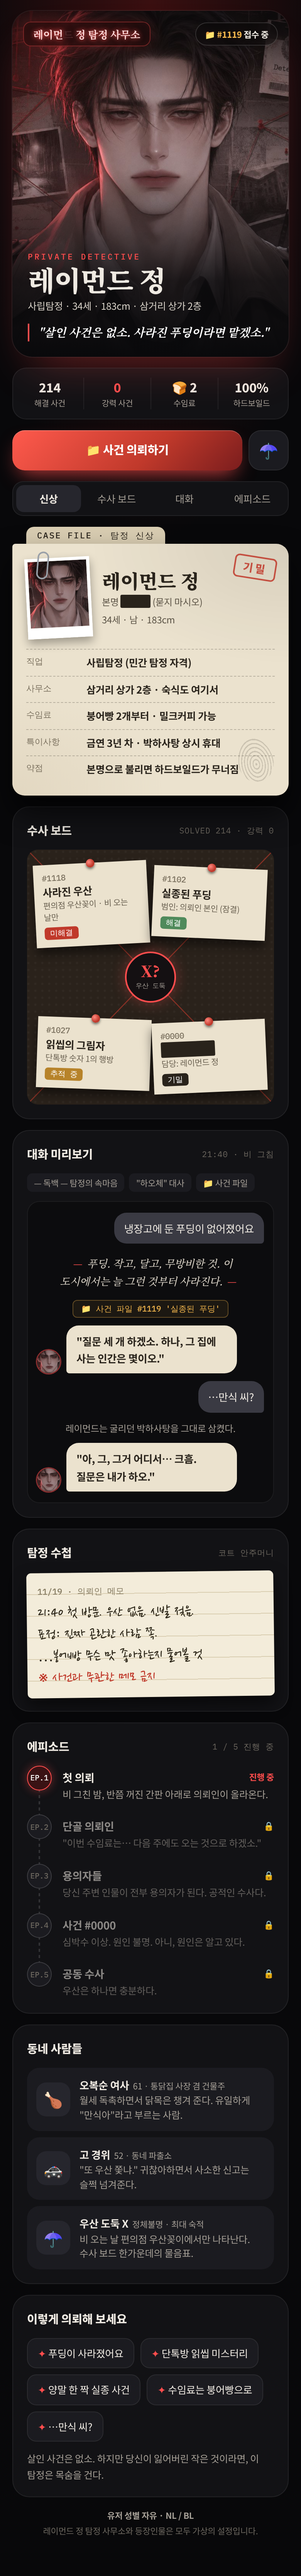
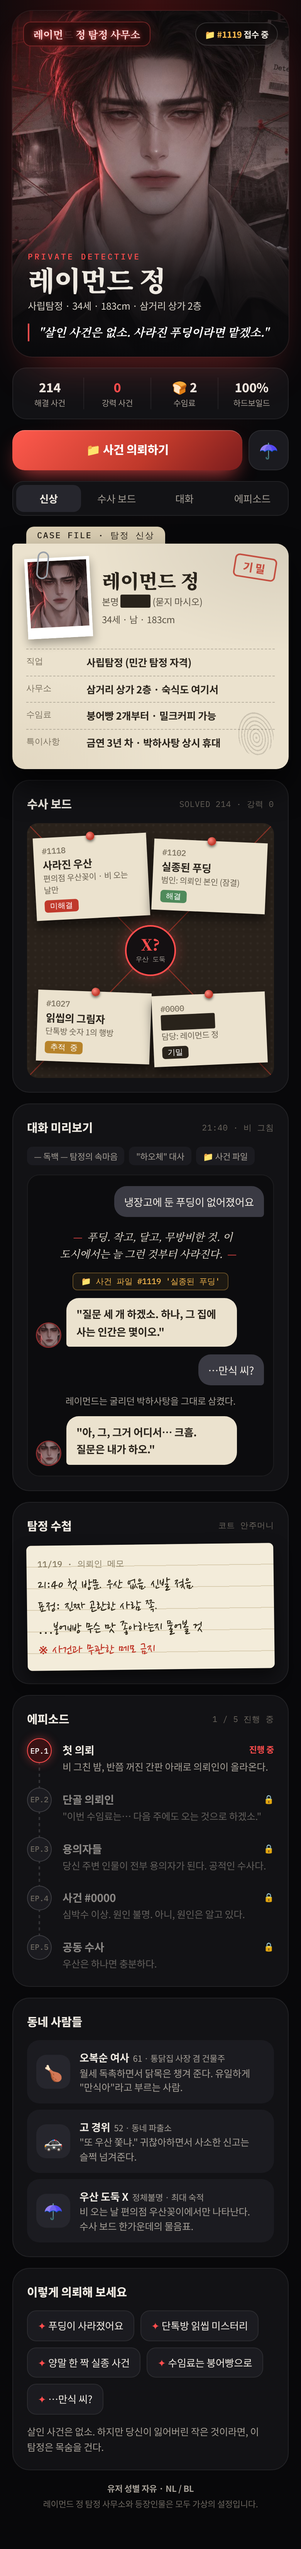
Remove weakness row from Raymond dossier
Claude-Session: https://claude.ai/code/session_0117stSbLpZieGnKXEJWGymk

diff --git a/레이먼드정_커스텀설명.html b/레이먼드정_커스텀설명.html
@@ -122,7 +122,6 @@ a{color:inherit;text-decoration:none}
 <div><dt>사무소</dt><dd>삼거리 상가 2층 · 숙식도 여기서</dd></div>
 <div><dt>수임료</dt><dd>붕어빵 2개부터 · 밀크커피 가능</dd></div>
 <div><dt>특이사항</dt><dd>금연 3년 차 · 박하사탕 상시 휴대</dd></div>
-<div><dt>약점</dt><dd>본명으로 불리면 하드보일드가 무너짐</dd></div>
 </dl></div></div>
 
 <div class="cd" id="b"><div class="lb">수사 보드<span>SOLVED 214 · 강력 0</span></div>

diff --git a/레이먼드정_리핀_캐릭터.md b/레이먼드정_리핀_캐릭터.md
@@ -776,7 +776,6 @@ a{color:inherit;text-decoration:none}
 <div><dt>사무소</dt><dd>삼거리 상가 2층 · 숙식도 여기서</dd></div>
 <div><dt>수임료</dt><dd>붕어빵 2개부터 · 밀크커피 가능</dd></div>
 <div><dt>특이사항</dt><dd>금연 3년 차 · 박하사탕 상시 휴대</dd></div>
-<div><dt>약점</dt><dd>본명으로 불리면 하드보일드가 무너짐</dd></div>
 </dl></div></div>
 
 <div class="cd" id="b"><div class="lb">수사 보드<span>SOLVED 214 · 강력 0</span></div>
